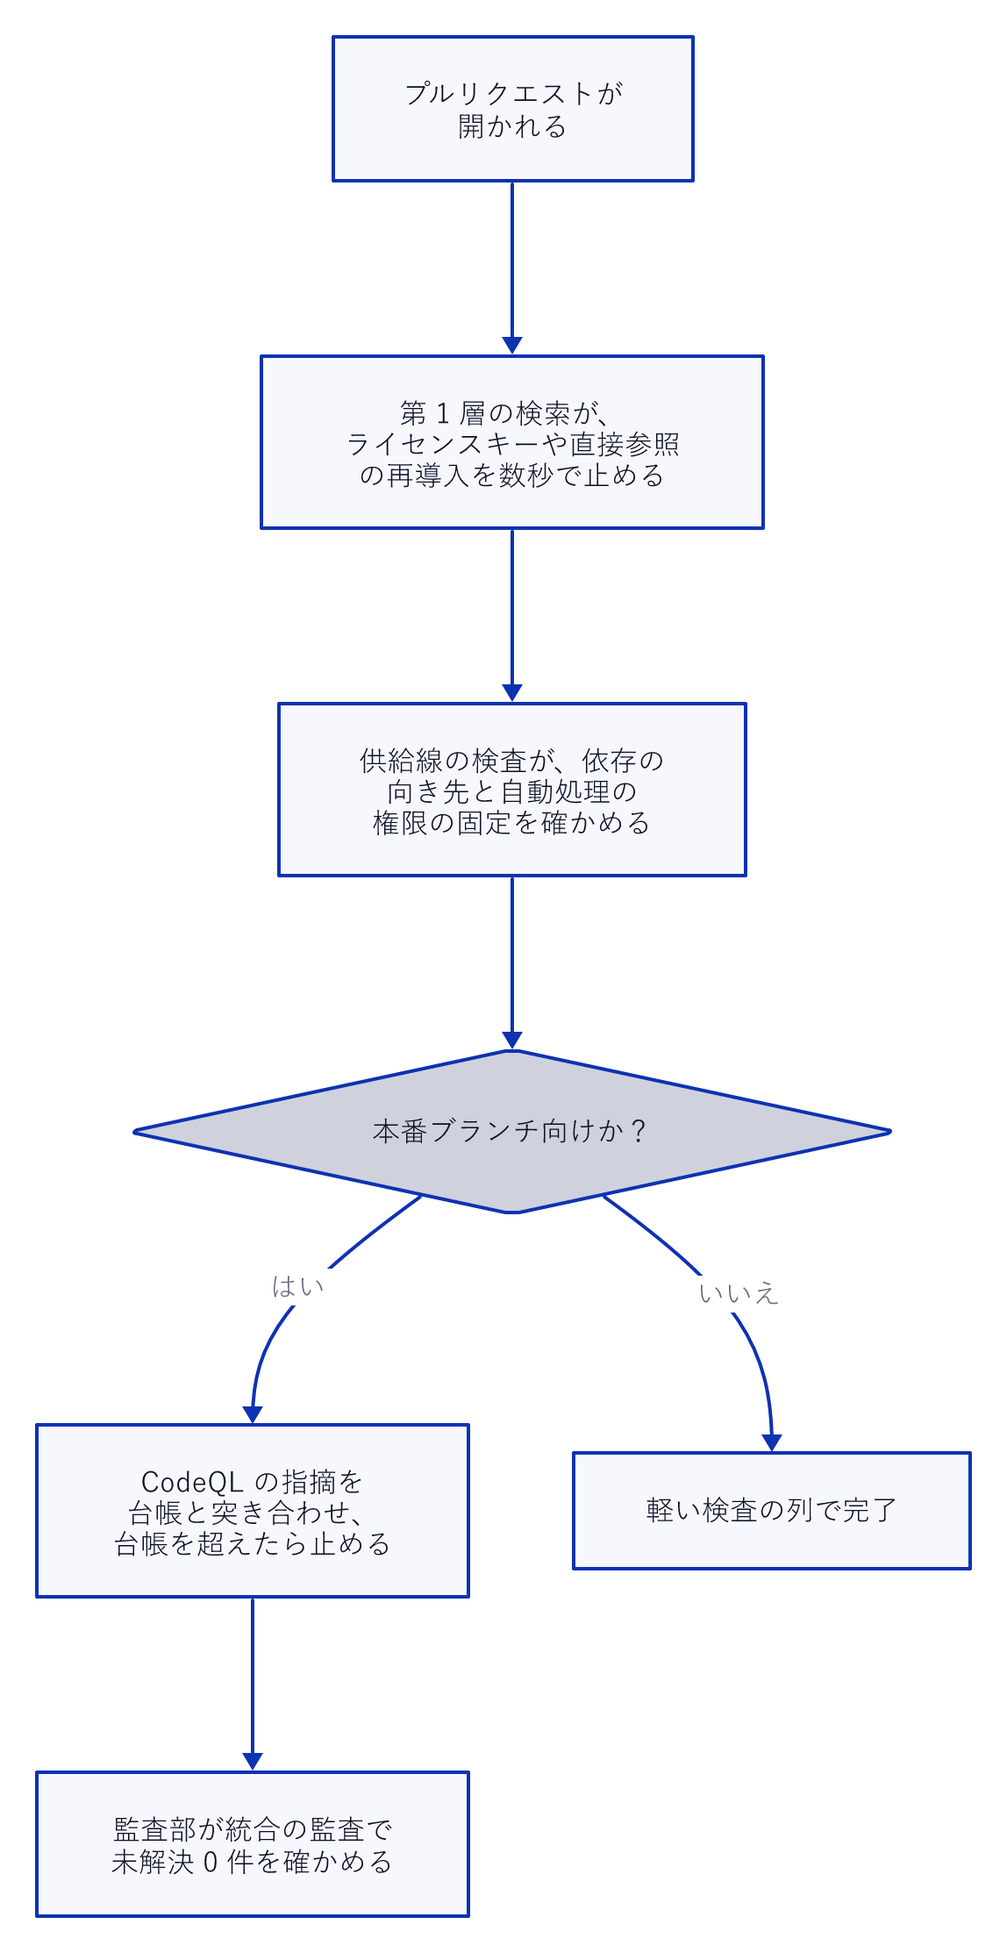
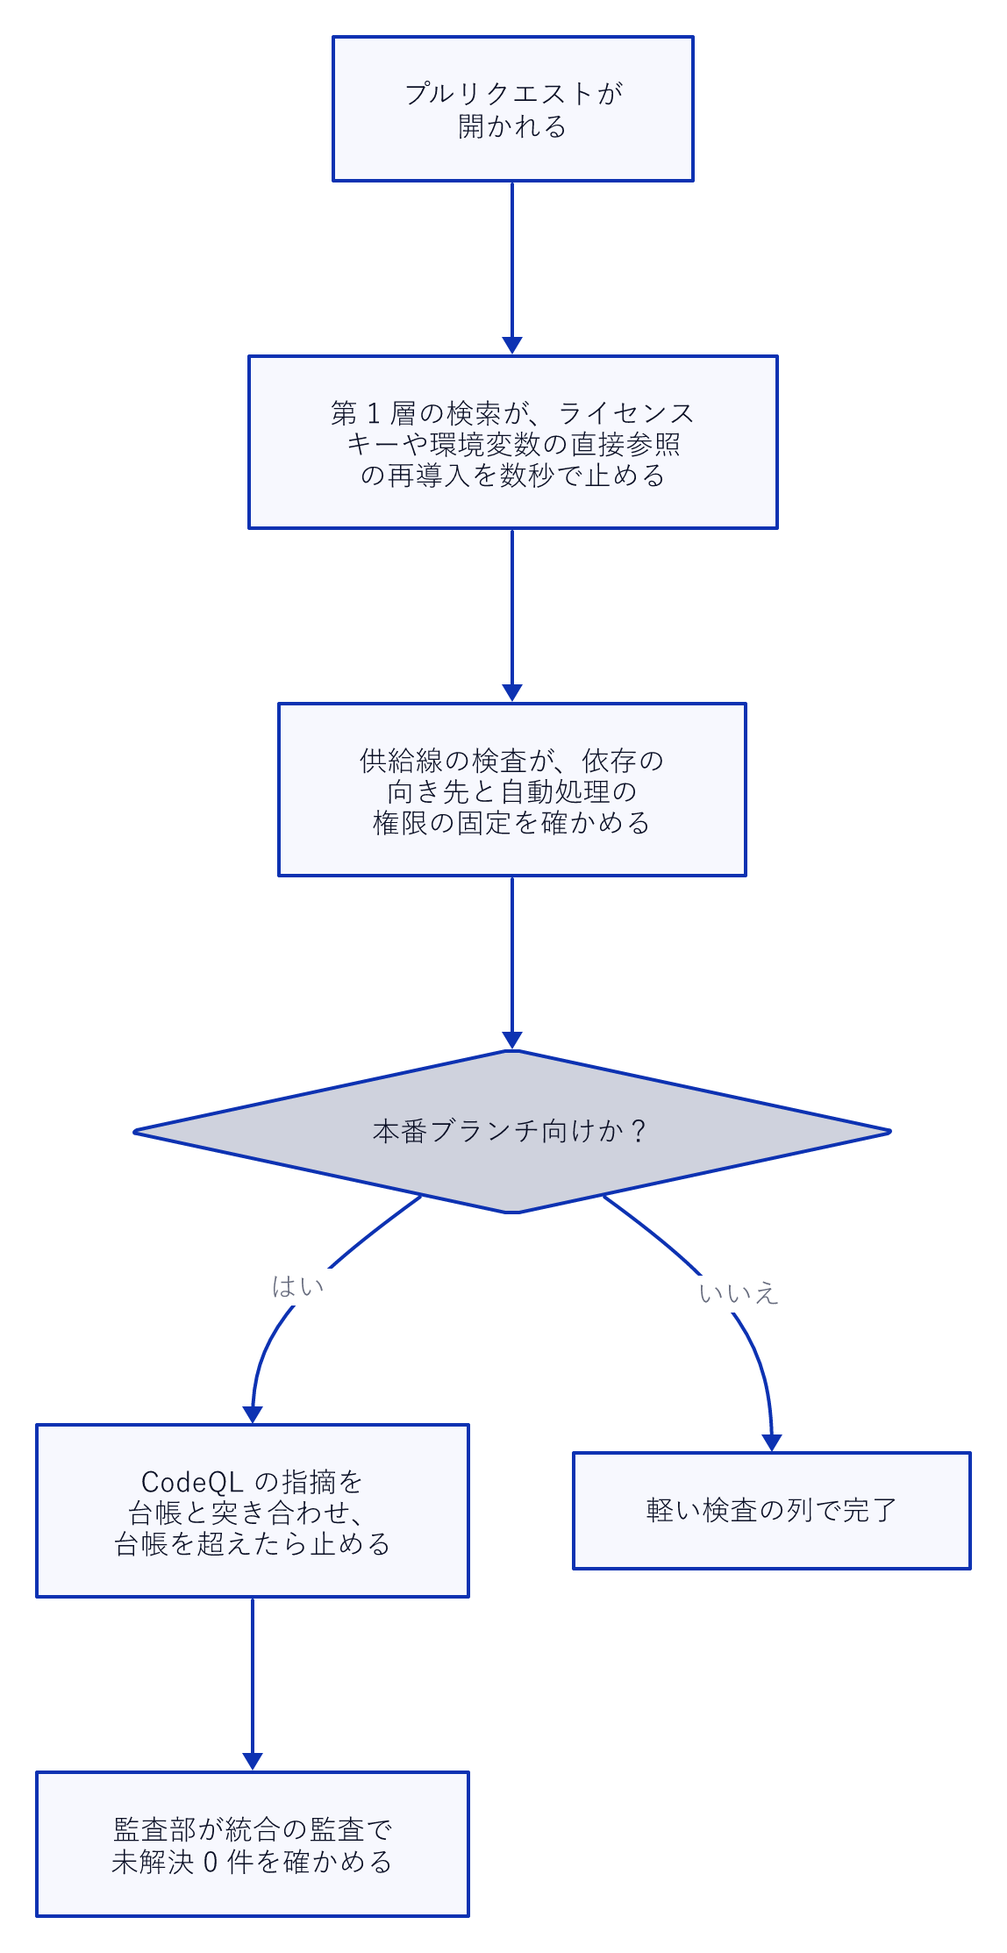
書き直し(改訂 4): 第Ⅴ部の査読指摘を反映する
何を:
- security-scans: 「配線の確認は実装の確認ではない」の参照先を実在する第Ⅱ部-2 に直し、
  重複していた 1 文を除き、消えていた Issue 番号 3 件を脚注に戻した
- test-pyramid: 出典の commit に Playwright の設定ファイルは 6 本しか無いことを
  gh api で確かめ、題名・見出し・本文の「7 つ」を「6 つ」に直した
- pre-ready: 「19 段階のうち 14 段階」を補追の実測に帰属させ、1,350 秒の言い換えを
  「22 分半」に統一し、rebase の訳を「ブランチの作り直し」に揃えた
- 語の統一: 不具合の「型」を「同じ型の不具合」「欠陥の型」に、「処理器」→ CPU、
  「机上」→ デスクトップ、「正準」→ 標準、「秘密鍵」→ 共有の合言葉、「節目」→ マイルストーン、
  「2 例目」→「2 件目」、sharp をバッククォート、初出の「決定」に設計判断の記録の種別を補う
- pr-body-gates: 宣言の例を「UI 変更なし**ではありません**」の形に戻し、
  出典の無い「減りました」を「減ったと感じています」に
- visual-regression: 図を対応する節（基準画像は git で追跡する）の直後へ移動、DOM に初出の説明
- security-scans の図: 「直接参照」を「環境変数の直接参照」に描き直した

何のために:
- 査読報告(tmp/briefs/reports/p5-review.md)の [止める] 1 件と [直す] 全件、
  妥当な [任意] を反映し、読者が参照先を辿れない箇所と語の衝突を無くすため

検証:
- textlint(zenn) 7 files errors 0 / check-terms T4 warnings 0 / check-zenn Z13 warnings 0
- check-diagrams errors 0(security-scans.png を目視)
- npm run check 合格、npm test exit 0

Changed region(s): [[0.3354, 0.186, 0.6707, 0.248], [0.7317, 0.186, 0.7927, 0.279], [0.2439, 0.186, 0.2744, 0.279]]

diff --git a/books/ganbari-quest-design/pr-body-gates.md b/books/ganbari-quest-design/pr-body-gates.md
@@ -26,7 +26,7 @@ title: "第Ⅴ部-6　プルリクエストの本文を読む関門 ― 7 つの
 
 ## 3 つの自動処理と 4 つのレーン
 
-本文を読む関門は 3 つの自動処理に分かれています。雛形の関門は 4 つの処理で、必須の節の存在、Issue の参照、顧客価値の記入、閉じる合図の語を見ます。品質の関門は 4 つの処理で、スクリーンショットの有無と品質、画像の指紋の一致、描画エラーの混入を見ます。マージの関門は 2 つの処理で、確認項目の未完了と、`check-pr-body.mjs` の 6 つの型を見ます。
+本文を読む関門は 3 つの自動処理に分かれています。雛形の関門は 4 つの処理で、必須の節の存在、Issue の参照、顧客価値の記入、閉じる合図の語を見ます。品質の関門は 4 つの処理で、スクリーンショットの有無と品質、画像の指紋の一致、描画エラーの混入を見ます。マージの関門は 2 つの処理で、確認項目の未完了と、`check-pr-body.mjs` の 6 種類の不備を見ます。
 
 どれも下書きが解除されたときだけ走ります。下書きの間は作業中なので検査しません。この条件が、[第Ⅴ部-1](pre-ready) で見た「手元の合格は自動検査の緑ではない」の一因です。手元の検査は下書きのうちに回すため、レビュー待ちにして初めて走る関門を原理的に見られません[^tplgate]。
 
@@ -42,7 +42,7 @@ title: "第Ⅴ部-6　プルリクエストの本文を読む関門 ― 7 つの
 
 **なぜ。** 部分一致で探していたからです。運用で避けている限り、誰かが 1 度コメントに見出しを書けば関門は空振りします。
 
-**変えたこと。** 2026 年 8 月に判定は 1 つのモジュールに集約されました。規約は 3 つです。判定の前に HTML コメントとコードブロックを除去する。見出しは行全体の完全一致で探す。見つからなければ `found: false` を返し、呼び出す側は必ず落とす側に倒す。3 つ目は「検査できなかった」を合格にしない思想で、[第Ⅴ部-5](visual-regression) の組が 0 件の見送りと同じ型への対処です[^prbodysections]。コメントの除去には CodeQL の指摘が反映されています。1 回の置換では、除去のあとに残った断片が再びコメントを構成しうるため、変化しなくなるまで繰り返します。「1 回だけ剥がして素通り」を作らないためです。
+**変えたこと。** 2026 年 8 月に判定は 1 つのモジュールに集約されました。規約は 3 つです。判定の前に HTML コメントとコードブロックを除去する。見出しは行全体の完全一致で探す。見つからなければ `found: false` を返し、呼び出す側は必ず落とす側に倒す。3 つ目は「検査できなかった」を合格にしない思想で、[第Ⅴ部-5](visual-regression) の組が 0 件の見送りと同じ型の不具合への対処です[^prbodysections]。コメントの除去には CodeQL の指摘が反映されています。1 回の置換では、除去のあとに残った断片が再びコメントを構成しうるため、変化しなくなるまで繰り返します。「1 回だけ剥がして素通り」を作らないためです。
 
 **読者のリポジトリでは。** 本文やコメントを文字列の部分一致で判定している検査があるなら、コメントとコードブロックの中の文字列で騙せるかを試してください。騙せるなら、その検査は運用で守られているだけです。
 
@@ -52,10 +52,10 @@ title: "第Ⅴ部-6　プルリクエストの本文を読む関門 ― 7 つの
 
 本文には、検査を飛ばさせる宣言があります。`UI 変更なし` や `該当なし（refactor / docs / chore）` と書けば、スクリーンショットの検証がまるごと飛ばされます。だからこそ、何が宣言で何が言及かを行単位で区別します。以下は宣言と見なされず、関門は飛ばさずにスクリーンショットを要求します。
 
-- 否定文（`UI 変更なし` のあとに「ではありません」と続く文）
+- 否定文（例: 「UI 変更なし**ではありません**」）
 - 引用の行とコードブロック
 - 未チェックの確認項目。チェックしていない = 宣言していない
-- 手順や条件の節（`UI 変更なし` のあとに「の場合」と続く文）と案内の文（「〜と書いてください」）
+- 手順や条件の節（例: 「UI 変更なし**の場合**」）と案内の文（「〜と書いてください」）
 - HTML コメントの中。描画された本文に出ないため、レビューする側と監査のどちらからも見えない
 
 同じ理由で、雛形や案内の文に検査を外す宣言そのものを書きません。雛形を消さずに出しただけで関門が飛ばされるからです。テストは実際の雛形を読んで、宣言が含まれていないことを検証しています[^routesclaude]。
@@ -64,7 +64,7 @@ title: "第Ⅴ部-6　プルリクエストの本文を読む関門 ― 7 つの
 
 ## 手元で同じものを読む
 
-`check-pr-body.mjs` は、直近 50 件のプルリクエストで頻発した 6 つの型を手元で掴むために書かれました。必須の節の見出しの不一致。禁止語（`予定`、`follow-up`、`TODO`、`別途`、`個別起票`）の混入。検証の節の `--pr` の番号が別のプルリクエストを指している。確認項目の未チェック。競合していてマージできない。企画部の決裁を要するラベルが付いているのに決裁の要約が無い。必須の節は JSON ではなく雛形を実行時に読んで見出しを取り出すので、雛形を更新すれば検査も追従します[^checkprbody]。
+`check-pr-body.mjs` は、直近 50 件のプルリクエストで頻発した 6 種類の不備を手元で掴むために書かれました。必須の節の見出しの不一致。禁止語（`予定`、`follow-up`、`TODO`、`別途`、`個別起票`）の混入。検証の節の `--pr` の番号が別のプルリクエストを指している。確認項目の未チェック。競合していてマージできない。企画部の決裁を要するラベルが付いているのに決裁の要約が無い。必須の節は JSON ではなく雛形を実行時に読んで見出しを取り出すので、雛形を更新すれば検査も追従します[^checkprbody]。
 
 このスクリプトは手元の一括検査の段階 9 であり、自動検査のマージの関門からも同じものが呼ばれます。手元と自動検査で同じスクリプトを使う設計は、[第Ⅴ部-1](pre-ready) の安い順に落とす実行順の起点です。本文だけを見る検査は最も安いので、最初に走ります[^checkprbody]。
 
@@ -83,7 +83,7 @@ title: "第Ⅴ部-6　プルリクエストの本文を読む関門 ― 7 つの
 
 生成AIが書き、生成AIがレビューする体制で、人間に残る役割は 2 つに絞られました。証跡が本物かを機械に確かめさせること、そして顧客に届いたかを自分の目で見ることです。前者が画像の指紋の一致とコミットの実在の検査で、後者が [第Ⅳ部-7](audit-team) の実機の監査と [第Ⅵ部-6](skills-as-sop) の読むだけの実機確認です。「人がちゃんと見た」証跡は、本文ではなく、統合プルリクエストのマージに付く署名（[第Ⅶ部-3](stacked-pr-integration)）に置きました。本文は生成AIが書き換えられますが、署名は書き換えられません。
 
-うまくいったかどうかを、組織の視点で書きます。本文を人間の組織の文化のまま生成AIに書かせたことは、半分うまくいきました。顧客価値の 1 文がそのまま告知になる仕組みは、生成AIが「誰の何が良くなるか」を毎回言語化する契機になり、実装の説明で終わるプルリクエストが減りました。半分は、うまくいきませんでした。本文を読む関門は最大の道具群になり、[第Ⅳ部-4](definition-of-done) で見たとおり、生成AIは本文を「埋める」ことに最適化しました。人間の組織の文書は、書く人の常識を前提にしています。生成AIにその前提は無く、前提の欠落を関門で補うと、関門が組織より大きくなります。
+うまくいったかどうかを、組織の視点で書きます。本文を人間の組織の文化のまま生成AIに書かせたことは、半分うまくいきました。顧客価値の 1 文がそのまま告知になる仕組みは、生成AIが「誰の何が良くなるか」を毎回言語化する契機になり、実装の説明で終わるプルリクエストが減ったと感じています。半分は、うまくいきませんでした。本文を読む関門は最大の道具群になり、[第Ⅳ部-4](definition-of-done) で見たとおり、生成AIは本文を「埋める」ことに最適化しました。人間の組織の文書は、書く人の常識を前提にしています。生成AIにその前提は無く、前提の欠落を関門で補うと、関門が組織より大きくなります。
 
 ## 何が効いて、何が残ったか
 
@@ -105,7 +105,7 @@ title: "第Ⅴ部-6　プルリクエストの本文を読む関門 ― 7 つの
 
 [^tplgate]: 雛形の必須の関門の自動処理。4 つの処理、下書きの解除を条件にする設定、レーン判定の共通部品。出典: [.github/workflows/pr-template-gate.yml](https://github.com/Takenori-Kusaka/ganbari-quest/blob/3af6c2ed9fd4fe5766fc80c255656e940f8ec8f0/.github/workflows/pr-template-gate.yml)。判定の正本と「処理は全レーンで必ず実行」の設計は [scripts/pr-template-gate-checks.mjs](https://github.com/Takenori-Kusaka/ganbari-quest/blob/3af6c2ed9fd4fe5766fc80c255656e940f8ec8f0/scripts/pr-template-gate-checks.mjs)
 
-[^checkprbody]: プルリクエスト本文の検査スクリプト。6 つの型、雛形の実行時の読み込み、レーン対応の経緯（統合プルリクエストで「赤いが無視してよい検査」が常設された実測と観点の切り替え）。出典: [scripts/check-pr-body.mjs](https://github.com/Takenori-Kusaka/ganbari-quest/blob/3af6c2ed9fd4fe5766fc80c255656e940f8ec8f0/scripts/check-pr-body.mjs)。自動検査の側の配線は [.github/workflows/pr-merge-gate.yml](https://github.com/Takenori-Kusaka/ganbari-quest/blob/3af6c2ed9fd4fe5766fc80c255656e940f8ec8f0/.github/workflows/pr-merge-gate.yml)
+[^checkprbody]: プルリクエスト本文の検査スクリプト。6 種類の不備、雛形の実行時の読み込み、レーン対応の経緯（統合プルリクエストで「赤いが無視してよい検査」が常設された実測と観点の切り替え）。出典: [scripts/check-pr-body.mjs](https://github.com/Takenori-Kusaka/ganbari-quest/blob/3af6c2ed9fd4fe5766fc80c255656e940f8ec8f0/scripts/check-pr-body.mjs)。自動検査の側の配線は [.github/workflows/pr-merge-gate.yml](https://github.com/Takenori-Kusaka/ganbari-quest/blob/3af6c2ed9fd4fe5766fc80c255656e940f8ec8f0/.github/workflows/pr-merge-gate.yml)
 
 [^prlane]: レーン判定の正本。機械名義の集合、自動マージの対象との区別、作成者で判定する理由、コミットの作者による免除の打ち切り。出典: [scripts/pr-lane.mjs](https://github.com/Takenori-Kusaka/ganbari-quest/blob/3af6c2ed9fd4fe5766fc80c255656e940f8ec8f0/scripts/pr-lane.mjs)
 

diff --git a/books/ganbari-quest-design/pre-ready.md b/books/ganbari-quest-design/pre-ready.md
@@ -6,7 +6,7 @@ title: "第Ⅴ部-1　手元で早く落とし、自動検査で確定する ―
 
 プルリクエストをレビュー待ちへ進める前に、開発者は手元で検査を回します。同じ検査は GitHub Actions の自動検査でも走ります。同じものが 2 か所で走るなら、どちらの結果を「通った」の根拠にするのか。がんばりクエストでは、この答えが 1 度ひっくり返りました。最初は手元の検査が条件で、いまは自動検査が確定の根拠です。なぜ逆転したのか。
 
-22 分かかる検査は、実行されないからです。手元の検査は早く落とすための道具に絞り、確定は自動検査に任せました。
+22 分半かかる検査は、実行されないからです。手元の検査は早く落とすための道具に絞り、確定は自動検査に任せました。
 
 ## 5 つの型の事故から生まれた一括検査
 
@@ -24,9 +24,9 @@ title: "第Ⅴ部-1　手元で早く落とし、自動検査で確定する ―
 
 **狙い。** 手元で全部の検査を通してからレビュー待ちにすれば、自動検査で落ちて往復する時間が消えるはずでした。
 
-**起きたこと。** 一括検査は成長し、2026 年 7 月 30 日の時点で 20 段階、通しで 1,350 秒かかるようになっていました。19 段階のうち 14 段階は変更の内容と関係なく無条件で走り、レビュー待ちのたびに 20 分超を要していました[^adr30]。
+**起きたこと。** 一括検査は成長し、2026 年 7 月 30 日の時点で 20 段階、通しで 1,350 秒かかるようになっていました。補追の実測では、19 段階のうち 14 段階が変更の内容と関係なく無条件で走り、レビュー待ちのたびに 22 分半を要していました[^adr30]。
 
-**なぜ。** 20 分かかる検査は、実際には実行されません。実行しても、待つ間に別の作業へ移って結果を見ない運用になります。決定の補追はこれを「実行されない関門」と呼び、関門として機能していなかったと記録しています。自動検査は同じ検査を並列で回して数分で終わります。判定の根拠を自動検査に置く方が速く、「実行したか」を人の申告で確かめずに済みます[^adr30]。
+**なぜ。** 22 分半かかる検査は、実際には実行されません。実行しても、待つ間に別の作業へ移って結果を見ない運用になります。設計判断の記録の補追はこれを「実行されない関門」と呼び、関門として機能していなかったと記録しています。自動検査は同じ検査を並列で回して数分で終わります。判定の根拠を自動検査に置く方が速く、「実行したか」を人の申告で確かめずに済みます[^adr30]。
 
 **変えたこと。** レビュー待ちの必要条件を「自動検査の全処理が通ること」に移し、手元の一括検査を 6 段階、300 秒以内に縮小しました。レビュー待ちの確認項目からは「一括検査の全段階が通ること」を外しました。自己参照の行き詰まりを作るからです[^adr30]。
 
@@ -55,7 +55,7 @@ title: "第Ⅴ部-1　手元で早く落とし、自動検査で確定する ―
 
 ## 分岐元の鮮度
 
-もう 1 つの事前確認が、分岐元のブランチの鮮度です。手元で検査を通しても、分岐元が進んでいれば自動検査は別の基準で判定します。ただし分岐元は 1 日に何度も進むため、進んでいるだけで止めると無駄な取り直しが多発します。
+もう 1 つの事前確認が、分岐元のブランチの鮮度です。手元で検査を通しても、分岐元が進んでいれば自動検査は別の基準で判定します。ただし分岐元は 1 日に何度も進むため、進んでいるだけで止めると、分岐元に追随するブランチの作り直しが多発します。
 
 判定は 2 段階です。分岐元が進んだ差分に「一括検査の検査基準」が含まれていれば止めます。検査基準とは、プルリクエストの雛形、雛形の節の定義、検査スクリプトとそれが読み込むファイルの連鎖です。手元は旧基準、自動検査は新基準で判定するため、手元の合格が成立しないからです。含まれていなければ警告の注記だけで止めません[^cli]。
 
@@ -81,7 +81,7 @@ title: "第Ⅴ部-1　手元で早く落とし、自動検査で確定する ―
 
 許可一覧、基準値、免除の一覧には `reason` の欄があります。欄が埋まっていれば通す、では抜け道が残ります。除外の理由の判定を 1 か所に集めたモジュールは、2 つの抜け道を記録しています。1 つは `TODO` や `n/a` や `-` のような、空ではないが理由ではない値です。もう 1 つは、検査自身の生成物で埋まった欄です。基準値を更新する命令が、検出の理由（「どこからも読み込まれていません」という機械が書いた現象の説明）を免除の理由の欄に写していました。なぜ免除してよいかを誰も書いていないのに欄は埋まり、理由の仕組みが形だけになります。現象の説明と免除の正当化は別物だ、とモジュールは書いています[^reason]。
 
-定型の埋め草（`todo` や `n/a` や「未定」「なし」など）は完全一致で弾き、機械が生成した文字列の目印と 8 文字未満の短さも弾きます。生成する側と検査する側が同じ表を参照するため、「生成は止めたが既存のデータは通る」片肺の状態になりません。
+定型の埋め草（`todo` や `tbd` や `n/a`、「未定」「なし」など）は完全一致で弾き、機械が生成した文字列の目印と 8 文字未満の短さも弾きます。生成する側と検査する側が同じ表を参照するため、「生成は止めたが既存のデータは通る」片肺の状態になりません。
 
 ## 何が効いたか
 
